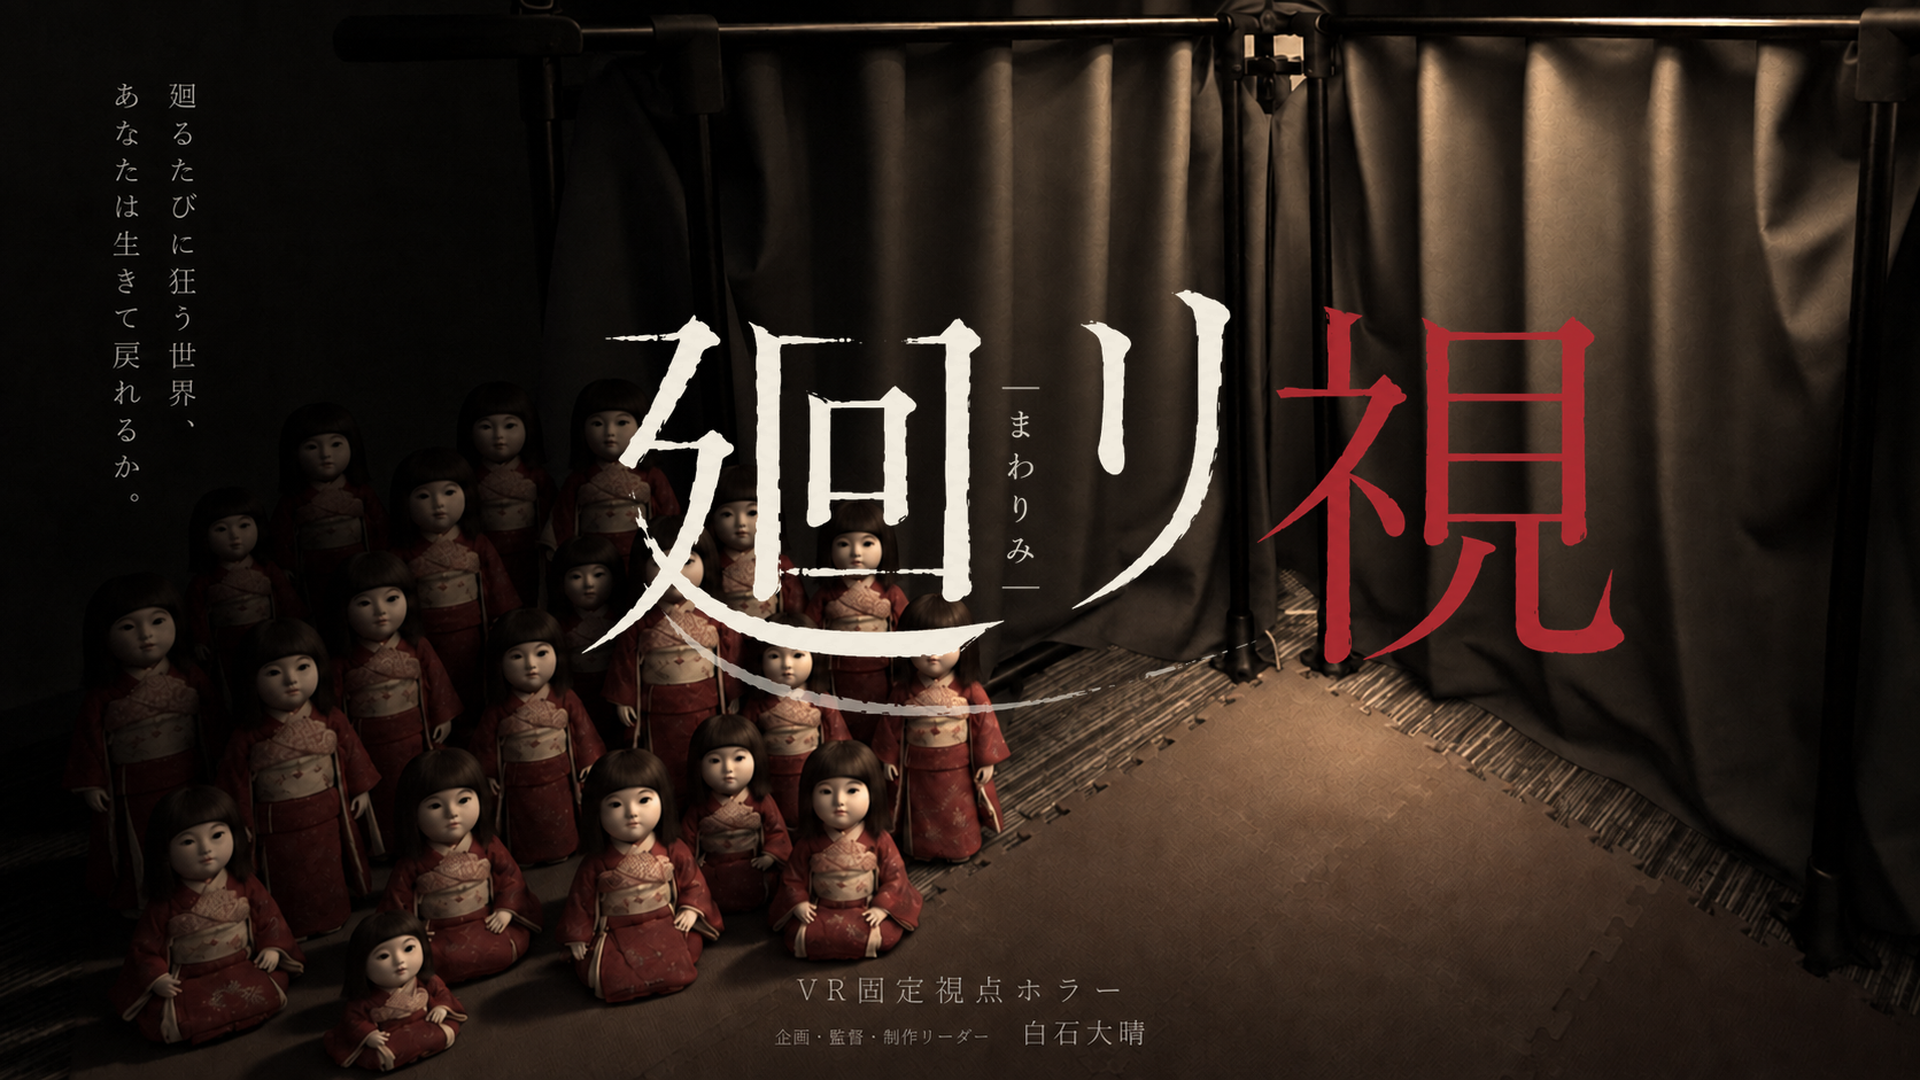
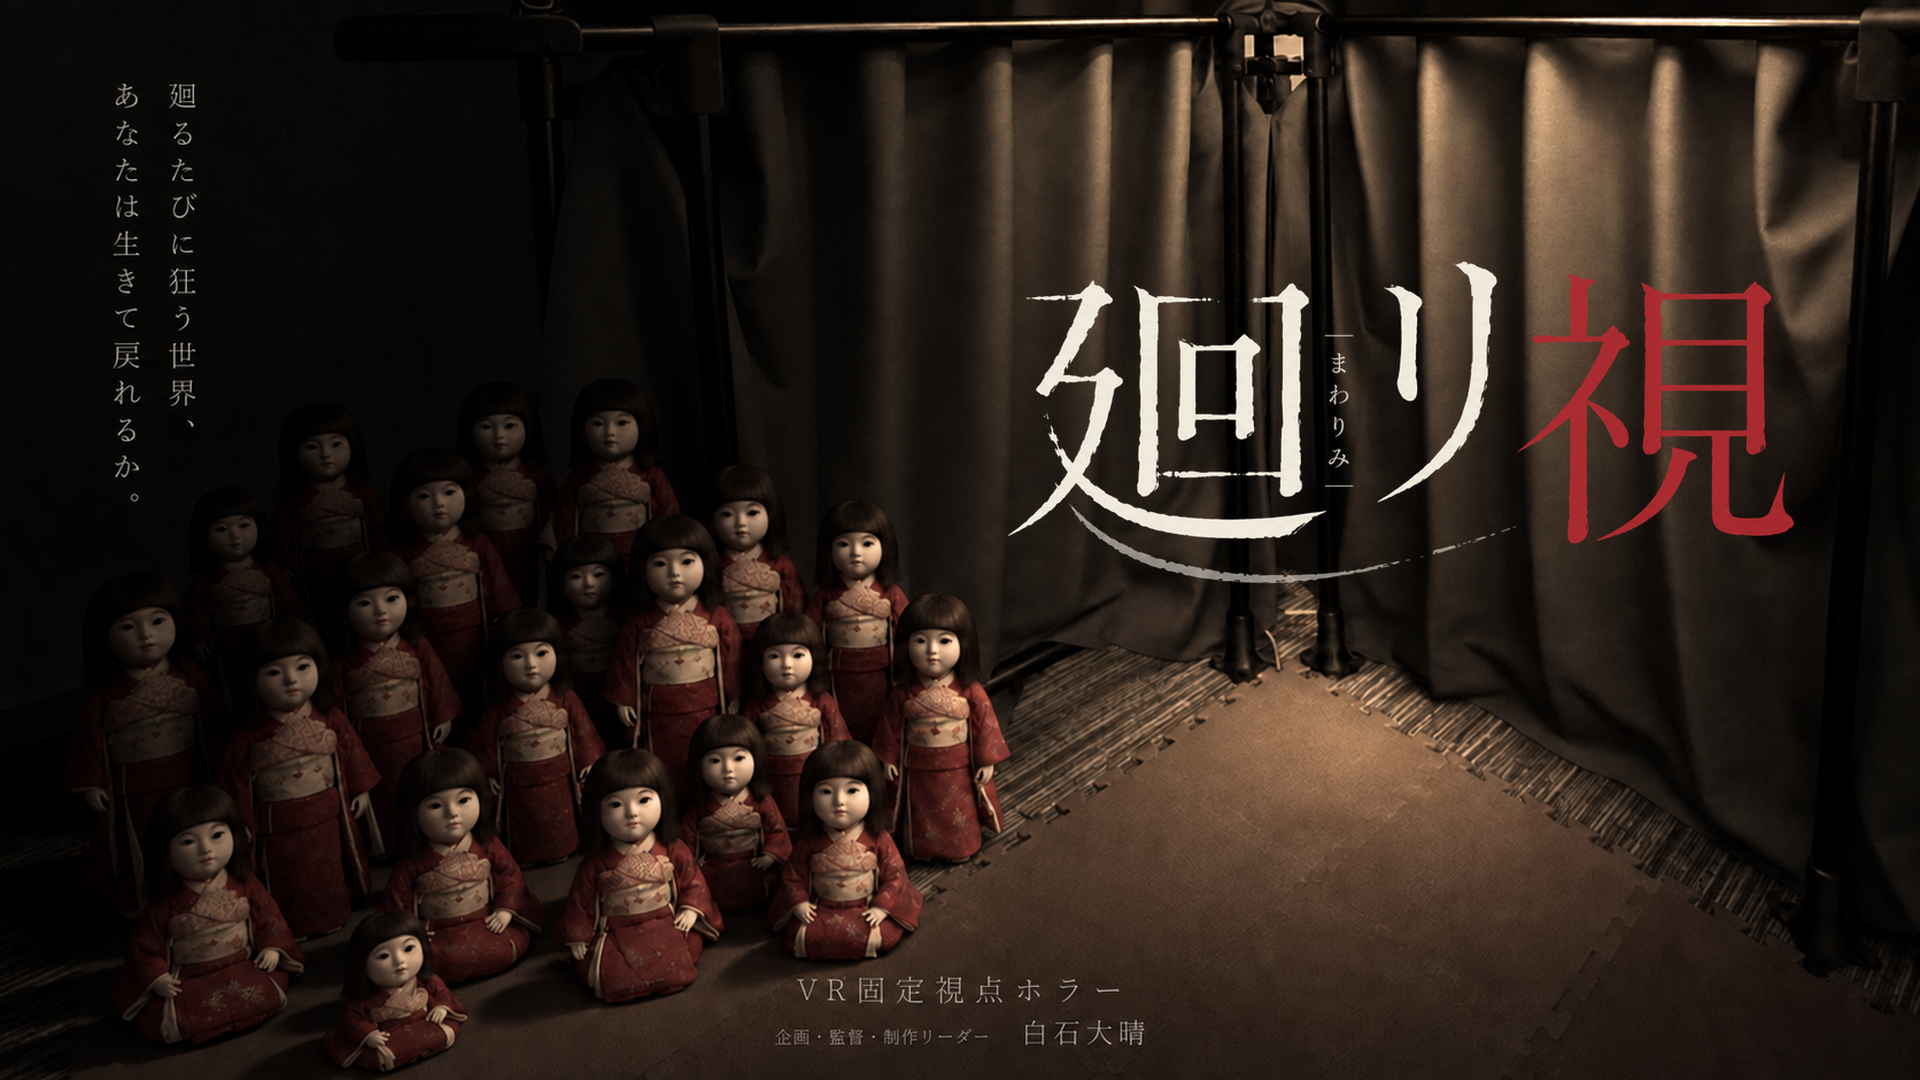
style：題字を人形と余白に合わせて配置する

Changed region(s): [[0.3125, 0.2444, 0.9375, 0.6417], [0.4062, 0.6417, 0.5625, 0.6722]]

diff --git a/Assets/Resources/Visitor/visitor.html b/Assets/Resources/Visitor/visitor.html
@@ -125,11 +125,11 @@
   .title-view { position: absolute; z-index: 10; inset: 0; display: flex; align-items: center; min-height: 100svh; overflow: hidden; cursor: pointer; background: var(--bg); transition: opacity .52s var(--ease); }
   .title-view::before { content: ""; position: absolute; inset: 0; background: linear-gradient(90deg,rgba(9,8,7,.45),transparent 75%),linear-gradient(0deg,rgba(9,8,7,.65),transparent 30%),url("./asset/entrance-doll-v1.png") 76% center / cover no-repeat; transition: transform .8s var(--ease),opacity .5s var(--ease); }
   .title-view::after { content: ""; position: absolute; inset: 22px; border: 1px solid rgba(232,220,196,.16); pointer-events: none; }
-  .title-lockup { position: relative; z-index: 1; width: min(58%,900px); margin-left: calc(var(--gutter) + 12px); padding-bottom: 12px; transition: opacity .35s var(--ease),transform .55s var(--ease); }
-  .title-brand { margin: 0 0 30px; line-height: 1; }
+  .title-lockup { position: absolute; z-index: 1; inset: 0; transition: opacity .35s var(--ease),transform .55s var(--ease); }
+  .title-brand { position: absolute; left: 6%; top: 30%; width: min(47%,900px); margin: 0; line-height: 1; }
   .title-brand img { display: block; width: 100%; height: auto; filter: drop-shadow(0 4px 24px rgba(0,0,0,.42)); }
-  .title-rule { display: block; width: 42px; height: 1px; margin-bottom: 34px; background: var(--gold); }
-  .title-start { border: 0; padding: 10px 0; gap: 42px; background: transparent; }
+  .title-rule { display: none; }
+  .title-start { position: absolute; left: 6%; bottom: max(13%,env(safe-area-inset-bottom)); border: 0; padding: 10px 0; gap: 42px; background: transparent; }
   .title-start:hover { background: transparent; }
   .title-start-copy { display: grid; gap: 7px; }
   .title-start-main { font-size: 17px; letter-spacing: .12em; }
@@ -238,10 +238,9 @@
     .title-view { align-items: flex-end; }
     .title-view::before { background: linear-gradient(0deg,var(--bg),rgba(9,8,7,.9) 18%,transparent 68%),url("./asset/entrance-doll-v1.png") 77% 35% / cover no-repeat; }
     .title-view::after { inset: 14px; }
-    .title-lockup { margin: 0; width: 100%; padding: 40px var(--gutter) max(60px,env(safe-area-inset-bottom)); }
-    .title-brand { width: min(100%,620px); margin-bottom: 24px; }
-    .title-rule { margin-bottom: 22px; }
-    .title-start { width: 100%; justify-content: space-between; }
+    .title-lockup { inset: 0; }
+    .title-brand { left: 8%; right: 8%; top: max(10%,env(safe-area-inset-top)); width: auto; max-width: 620px; margin: 0 auto; }
+    .title-start { left: 8%; bottom: max(8%,env(safe-area-inset-bottom)); width: 84%; justify-content: space-between; }
     .result { padding-block: 30px; }
     .result-state { gap: 10px 20px; margin-bottom: 30px; }
     .result-title { font-size: 28px; }
@@ -268,6 +267,10 @@
     #briefingPrevious { grid-row: 2; grid-column: 1; }
     #briefingNext, .briefing-replay { grid-row: 2; grid-column: 2; }
     #briefingMute { grid-row: 3; grid-column: 1 / -1; }
+  }
+  @media (max-width:760px) and (min-aspect-ratio:1/1) {
+    .title-brand { left: 6%; right: auto; top: 22%; width: 47%; margin: 0; }
+    .title-start { left: 6%; width: auto; }
   }
   @media (max-width:420px) {
     :root { --gutter: 22px; }

diff --git a/tools/make-title-art.py b/tools/make-title-art.py
@@ -352,9 +352,10 @@ def build_from_master(preview=False):
 
     if os.path.exists(KEYVISUAL_PLATE):
         plate = Image.open(KEYVISUAL_PLATE).convert("RGBA")
-        logo = _fit(transparent, int(plate.width * 0.57), int(plate.height * 0.47))
-        x = int(plate.width * 0.29)
-        y = int(plate.height * 0.245)
+        # 人形群の右上にある暗幕へ置く。顔と左のコピーを避ける。
+        logo = _fit(transparent, int(plate.width * 0.43), int(plate.height * 0.35))
+        x = int(plate.width * 0.515)
+        y = int(plate.height * 0.225)
         plate.alpha_composite(logo, (x, y))
         plate = plate.convert("RGB").resize((1920, 1080), Image.LANCZOS)
         os.makedirs(os.path.dirname(KEYVISUAL_DEST), exist_ok=True)

diff --git a/tools/title-art/README.md b/tools/title-art/README.md
@@ -6,6 +6,9 @@
 `keyvisual-clean-v2.png` は元のキービジュアルから旧題字だけを除いた背景版。
 どちらも画像生成で作成し、以後は描き直さず同じ画像から用途別の版を生成する。
 
+キービジュアルの題字は右上の暗幕に配置する。人形の顔と左の縦書きコピーを避ける。
+幅は背景の43%以内。薄い払いまで含めて右端に余白を残す。
+
 ```powershell
 py -3.11 tools/make-title-art.py --preview
 ```
